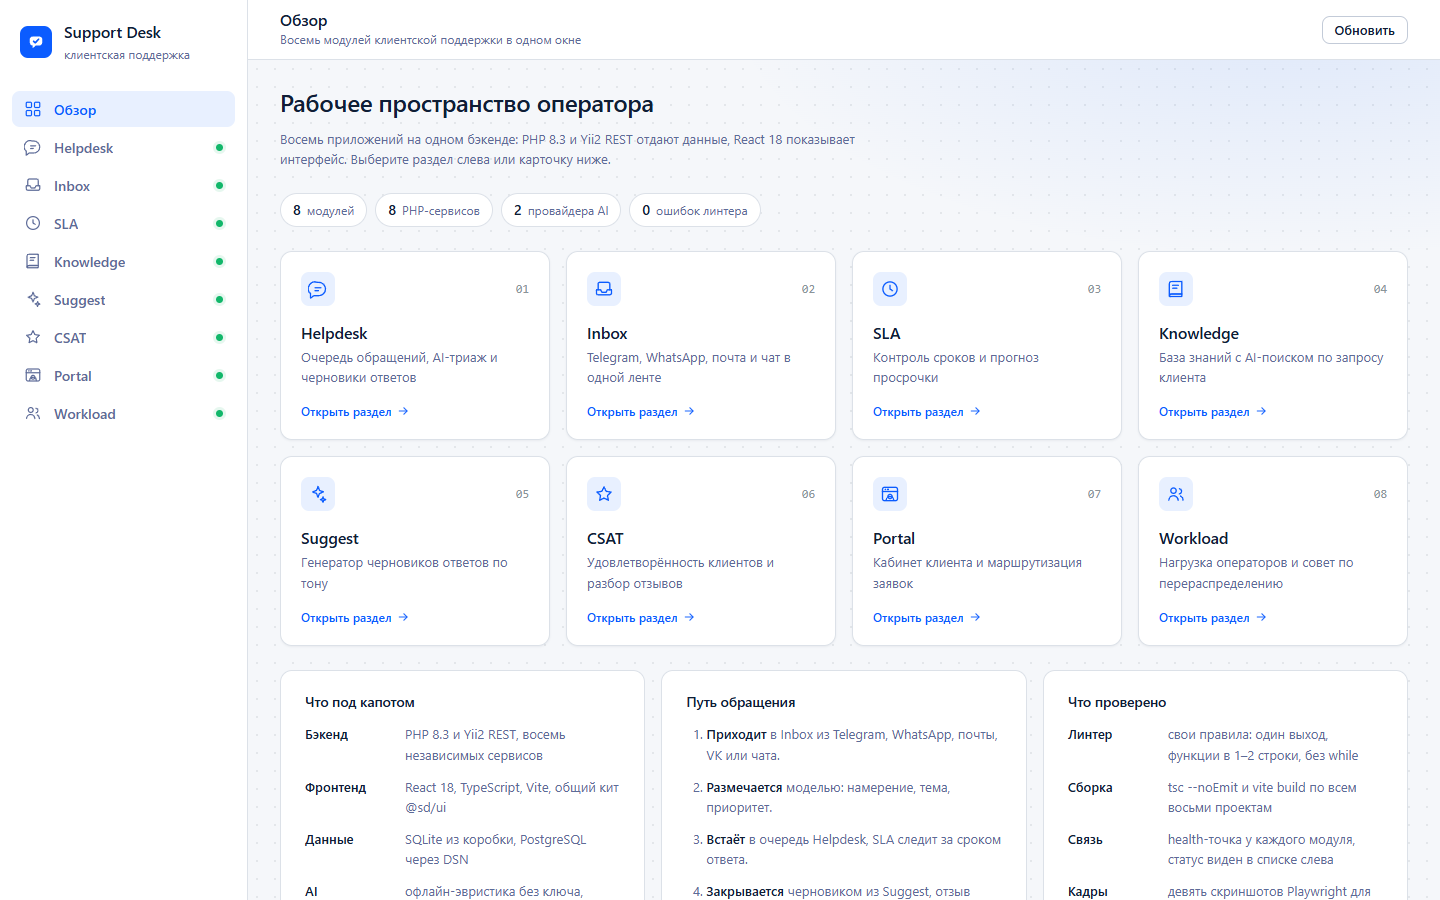
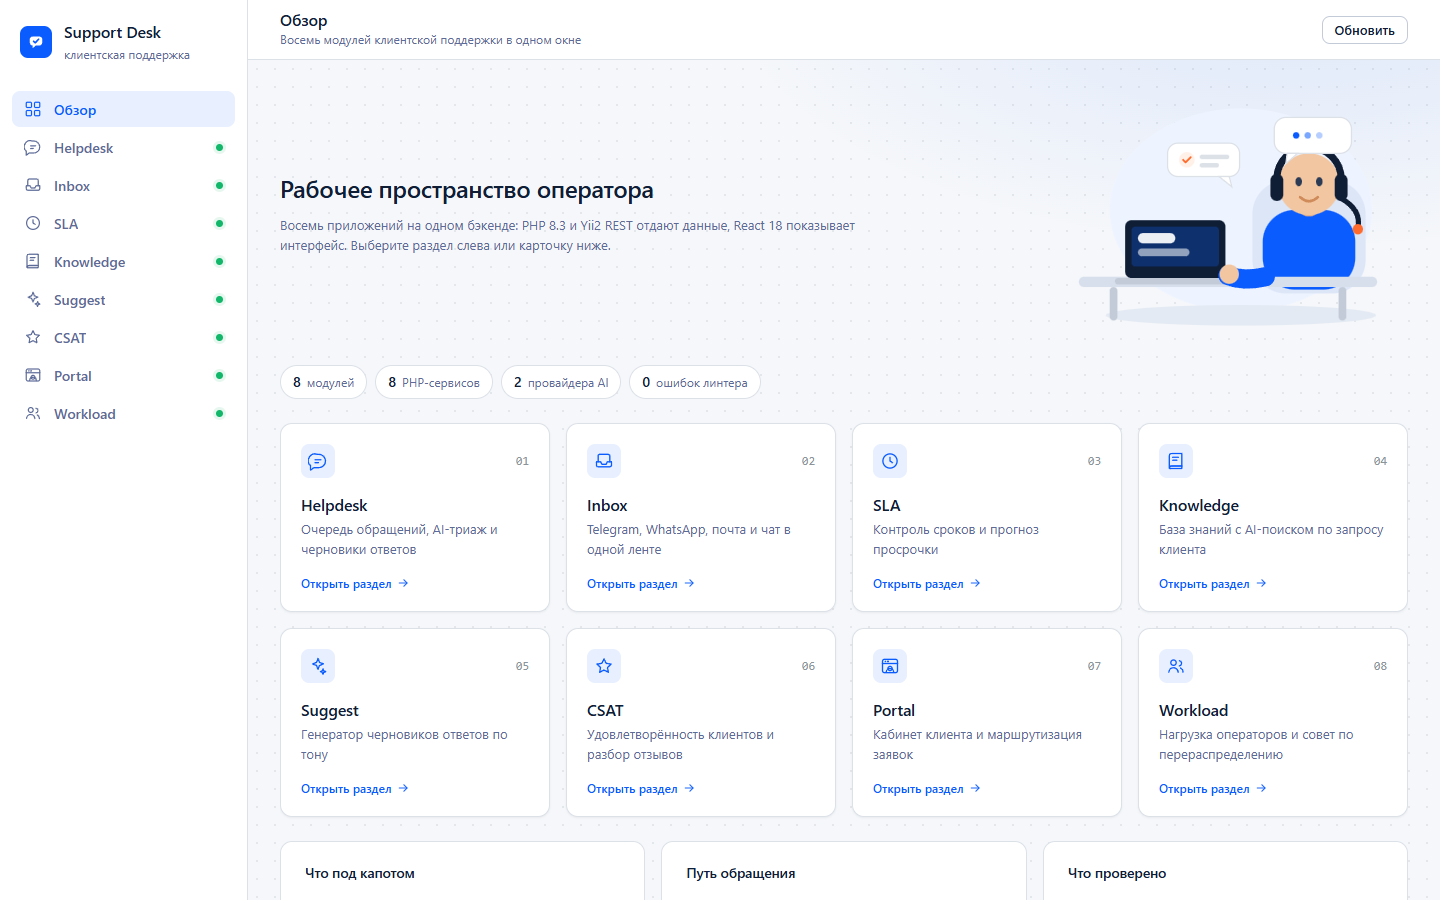
Модуль во всю область и 2D-герой в шапке обзора
В режиме модуля рабочая область теряет отступ, рамку и скругление — вложенного окна и второй прокрутки больше нет. На обзоре появился плоский векторный оператор поддержки: наушники, ноутбук и облачка чатов.

diff --git a/desktop/renderer/index.html b/desktop/renderer/index.html
@@ -62,11 +62,14 @@
         <main class="workspace sd-canvas">
           <section class="overview" id="overview">
             <div class="overview-head">
-              <h1 class="overview-title">Рабочее пространство оператора</h1>
-              <p class="overview-desc">
-                Восемь приложений на одном бэкенде: PHP 8.3 и Yii2 REST отдают данные, React 18 показывает интерфейс.
-                Выберите раздел слева или карточку ниже.
-              </p>
+              <div class="overview-head__text">
+                <h1 class="overview-title">Рабочее пространство оператора</h1>
+                <p class="overview-desc">
+                  Восемь приложений на одном бэкенде: PHP 8.3 и Yii2 REST отдают данные, React 18 показывает интерфейс.
+                  Выберите раздел слева или карточку ниже.
+                </p>
+              </div>
+              <img class="overview-head__hero" src="hero.svg" alt="Оператор поддержки за рабочим местом" width="340" height="243" />
             </div>
             <div class="overview-facts">
               <span class="fact"><b>8</b> модулей</span>

diff --git a/desktop/renderer/shell.css b/desktop/renderer/shell.css
@@ -104,6 +104,22 @@ body {
   padding: var(--sd-space-6) var(--sd-space-8) var(--sd-space-8);
 }
 
+.workspace--module {
+  padding: 0;
+  overflow: hidden;
+}
+
+.workspace--module .frame {
+  border: 0;
+  border-radius: 0;
+  box-shadow: none;
+}
+
+.workspace--module .frame-wait {
+  border: 0;
+  border-radius: 0;
+}
+
 .frame {
   flex: 1;
   width: 100%;
@@ -150,6 +166,29 @@ body {
   display: flex;
   flex-direction: column;
   gap: var(--sd-space-6);
+}
+
+.overview-head {
+  display: flex;
+  align-items: center;
+  justify-content: space-between;
+  gap: var(--sd-space-8);
+}
+
+.overview-head__text {
+  max-width: 620px;
+}
+
+.overview-head__hero {
+  flex: 0 0 auto;
+  width: 360px;
+  height: auto;
+}
+
+@media (max-width: 1280px) {
+  .overview-head__hero {
+    width: 280px;
+  }
 }
 
 .overview-title {

diff --git a/desktop/renderer/app.js b/desktop/renderer/app.js
@@ -82,6 +82,7 @@ function selectModule(id) {
   const module = MODULES().find((item) => item.id === id);
 
   markActive(id);
+  document.querySelector(".workspace").classList.toggle("workspace--module", Boolean(module));
   document.getElementById("overview").hidden = Boolean(module);
   document.getElementById("frame").hidden = !module;
   document.getElementById("frame-wait").hidden = !module;
